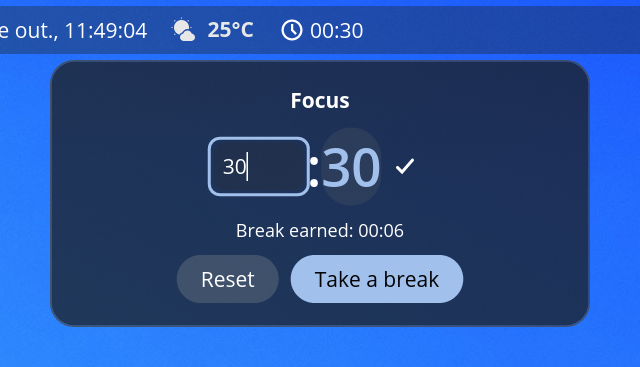
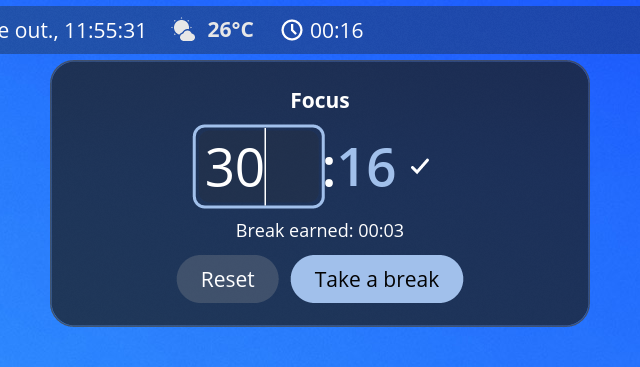
fix: size the time edit field like the clock
The edit input used the default body font, so the typed value was tiny
next to the title1 clock and the row height jumped. Use title1's 35px
size and 52px line height.

diff --git a/src/main.rs b/src/main.rs
@@ -465,7 +465,11 @@ impl Applet {
                     .id(EDIT_ID.clone())
                     .on_input(Message::EditInput)
                     .on_submit(|_| Message::EditConfirm)
-                    .width(Length::Fixed(64.))
+                    // match title1 (35px / 52px line) so the clock doesn't jump while editing
+                    .size(35.)
+                    .line_height(cosmic::iced::widget::text::LineHeight::Absolute(52.0.into()))
+                    .padding([0, 6])
+                    .width(Length::Fixed(84.))
                     .into(),
                 _ if editable => widget::button::custom(widget::text::title1(text))
                     .class(cosmic::theme::Button::Text)
